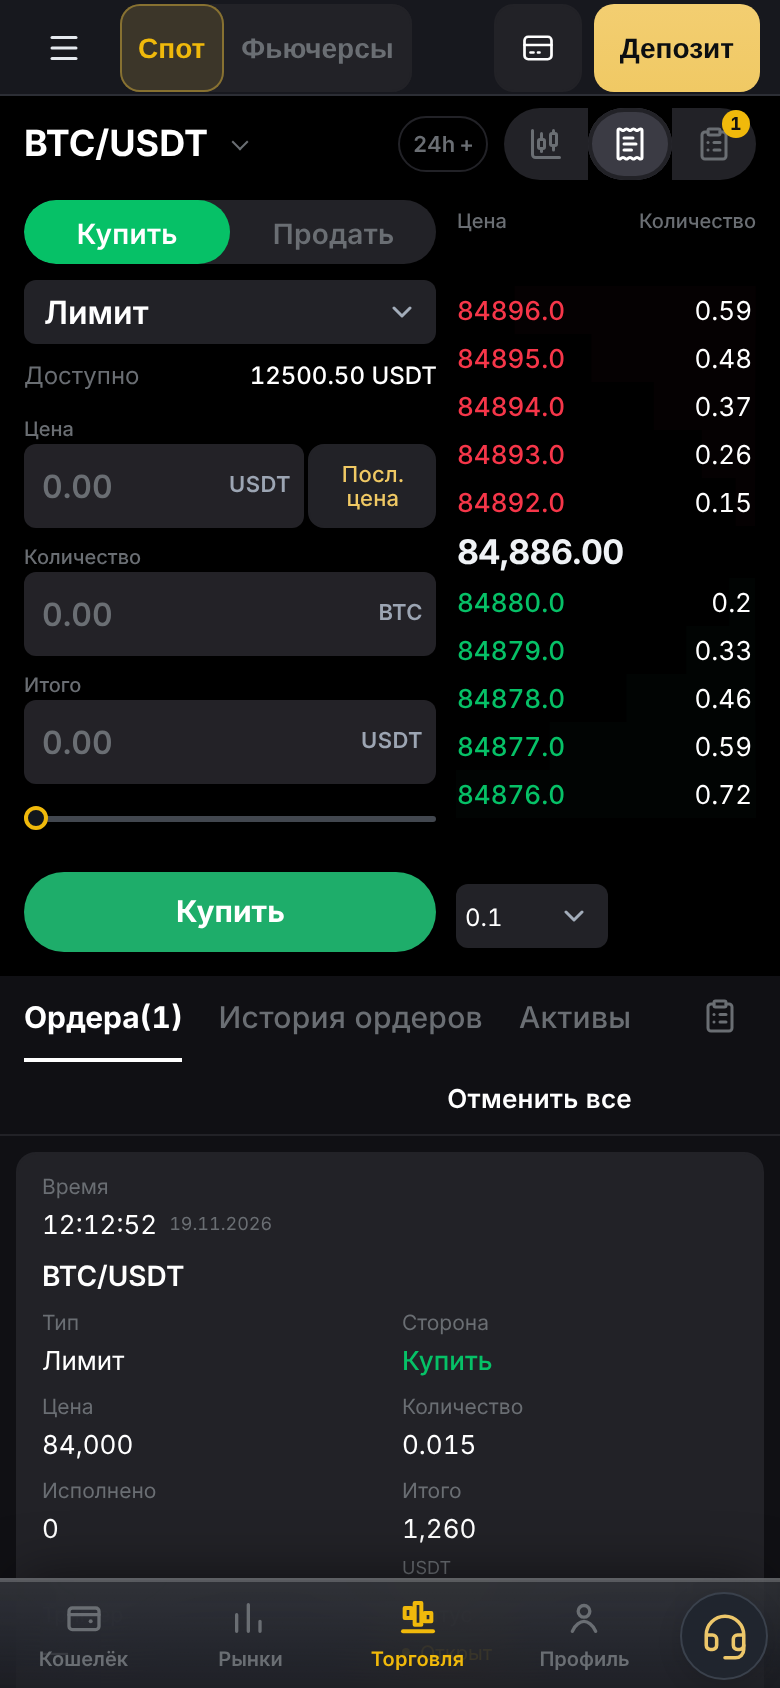
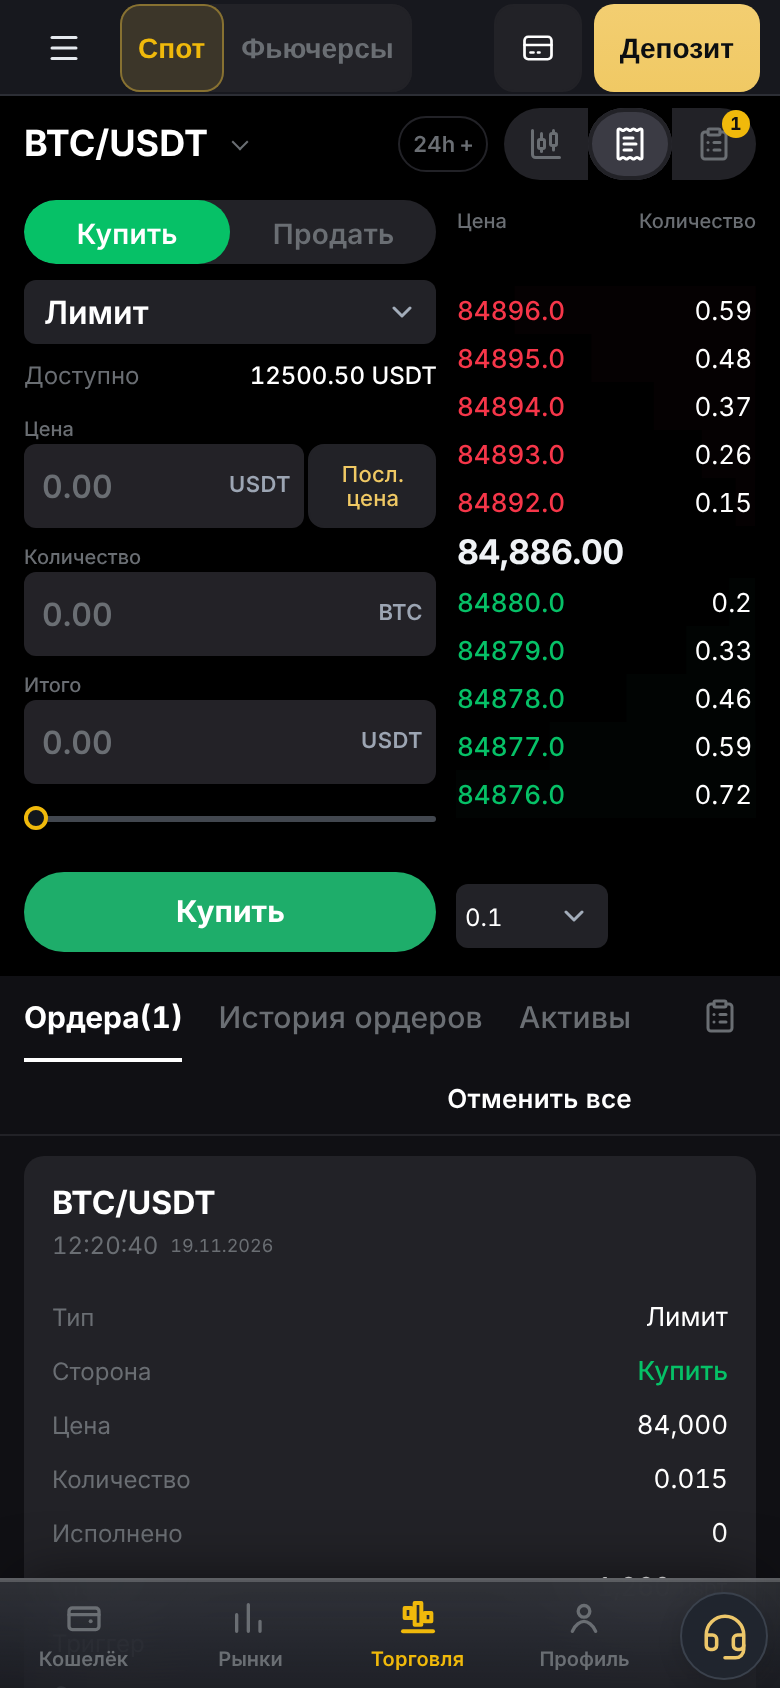
[CF-Pages-Skip] [skip render] spot: the phone order card follows the Futures phone card
The open-order and history cards on the Spot phone screen put the pair
in the head, the time under it, then label left and figure right, with
the cancel key as a pill — the layout of the Futures phone order card.
Field captions stay over their fields: the stop and OCO tickets keep
hints and a second caption in the same group.

Records the owner's instruction to put the phone terminals on the
exchange once finished; publication is Codex's, this session cannot
deploy.

Checked here: qa-spot-mobile-terminal 103/0, qa-spot-cfd-terminal,
qa-vta-presentation, qa-spot-idle-reads, qa-voltora-listing exit 0;
jest frontend/src 311 suites, 5153 passed, none failed or skipped.

Claude-Session: https://claude.ai/code/session_01EmV3PtJ6NMdZqtPwhuyAXM

diff --git a/frontend/src/pages/trade-terminal/SpotMobileReference.css b/frontend/src/pages/trade-terminal/SpotMobileReference.css
@@ -130,7 +130,6 @@
   :is(#archive-terminal-preview,.trade-terminal).vx-terminal.market-reference.terminal-studio.spot-terminal .terminal[data-mobile-tab=trade] .available-balance .amount { margin-left:auto; font-size:12px; font-weight:500; white-space:nowrap; }
   :is(#archive-terminal-preview,.trade-terminal).vx-terminal.market-reference.terminal-studio.spot-terminal .terminal[data-mobile-tab=trade] :is(.order-summary,.available-balance) { box-shadow:none !important; outline:0 !important; }
   :is(#archive-terminal-preview,.trade-terminal).vx-terminal.market-reference.terminal-studio.spot-terminal .terminal[data-mobile-tab=trade] .form-group { gap:2px; }
-  :is(#archive-terminal-preview,.trade-terminal).vx-terminal.market-reference.terminal-studio.spot-terminal .terminal[data-mobile-tab=trade] .form-label { font-size:10px; line-height:12px; color:var(--text-tertiary,#6a6e73); }
   :is(#archive-terminal-preview,.trade-terminal).vx-terminal.market-reference.terminal-studio.spot-terminal .terminal[data-mobile-tab=trade] .input-group { min-height:40px; border:0; border-radius:var(--sm-radius); background:var(--sm-field); }
   /* The size slider: the track only, no preset keys. */
   :is(#archive-terminal-preview,.trade-terminal).vx-terminal.market-reference.terminal-studio.spot-terminal .terminal[data-mobile-tab=trade] .slider-labels { display:none; }
@@ -171,6 +170,21 @@
   :is(#archive-terminal-preview,.trade-terminal).vx-terminal.market-reference.terminal-studio.spot-terminal .bottom-tabs { flex-wrap:wrap; overflow:visible; -webkit-mask-image:none; mask-image:none; }
   :is(#archive-terminal-preview,.trade-terminal).vx-terminal.market-reference.terminal-studio.spot-terminal .bottom-actions { flex:1 0 100%; display:flex; justify-content:flex-end; min-height:36px; margin:0; padding:0; }
   :is(#archive-terminal-preview,.trade-terminal).vx-terminal.market-reference.terminal-studio.spot-terminal .bottom-action-btn { min-height:36px; padding:0 2px; border:0; background:transparent; color:var(--text-primary,#fff); font-size:13px; font-weight:600; }
+
+  /* Field captions stay over their fields: the stop and OCO tickets put hints and a second caption in the same group,
+     which a caption drawn inside the field would cover. They are small and quiet, as the Futures captions are. */
+  :is(#archive-terminal-preview,.trade-terminal).vx-terminal.market-reference.terminal-studio.spot-terminal .terminal[data-mobile-tab=trade] .form-label { font-size:10px; line-height:12px; color:var(--text-tertiary,#6a6e73); }
+
+  /* ── Order cards (open orders and history): the pair in the head, the time under it, then label left, figure right — the Futures phone card ── */
+  :is(#archive-terminal-preview,.trade-terminal).vx-terminal.market-reference.terminal-studio.spot-terminal .spot-orders-table tbody { display:grid !important; gap:10px; padding:10px var(--sm-pad) 12px; }
+  :is(#archive-terminal-preview,.trade-terminal).vx-terminal.market-reference.terminal-studio.spot-terminal .spot-orders-table tbody tr[data-order-id] { display:grid !important; grid-template-columns:minmax(0,1fr) !important; gap:8px !important; padding:12px 14px !important; border:0 !important; border-radius:10px !important; background:var(--sm-field) !important; }
+  :is(#archive-terminal-preview,.trade-terminal).vx-terminal.market-reference.terminal-studio.spot-terminal .spot-orders-table tbody tr[data-order-id] > td { display:flex !important; flex-direction:row !important; align-items:baseline !important; justify-content:flex-end !important; gap:4px; min-width:0; grid-column:auto !important; padding:0 !important; border:0 !important; font-size:13px; line-height:18px; text-align:right; }
+  :is(#archive-terminal-preview,.trade-terminal).vx-terminal.market-reference.terminal-studio.spot-terminal .spot-orders-table tbody tr[data-order-id] > td::before { content:attr(data-mobile-label); flex:none; margin:0 auto 0 0; padding-right:8px; font-size:12px; line-height:18px; color:var(--text-tertiary,#6a6e73); text-align:left; }
+  :is(#archive-terminal-preview,.trade-terminal).vx-terminal.market-reference.terminal-studio.spot-terminal .spot-orders-table tbody tr[data-order-id] > td.spot-order-pair { order:-2; justify-content:flex-start !important; font-size:16px; line-height:22px; font-weight:700; text-align:left; }
+  :is(#archive-terminal-preview,.trade-terminal).vx-terminal.market-reference.terminal-studio.spot-terminal .spot-orders-table tbody tr[data-order-id] > td.spot-order-time { order:-1; justify-content:flex-start !important; margin-top:-6px; padding-bottom:8px !important; border-bottom:1px solid var(--border,#222227) !important; font-size:12px; color:var(--text-tertiary,#6a6e73); text-align:left; }
+  :is(#archive-terminal-preview,.trade-terminal).vx-terminal.market-reference.terminal-studio.spot-terminal .spot-orders-table tbody tr[data-order-id] > td:is(.spot-order-pair,.spot-order-time,.spot-order-action)::before { content:none; display:none; }
+  :is(#archive-terminal-preview,.trade-terminal).vx-terminal.market-reference.terminal-studio.spot-terminal .spot-orders-table tbody tr[data-order-id] > td.spot-order-action { justify-content:stretch !important; }
+  :is(#archive-terminal-preview,.trade-terminal).vx-terminal.market-reference.terminal-studio.spot-terminal .spot-orders-table tbody tr[data-order-id] .cancel-btn { width:100%; min-height:36px; border-radius:18px; }
 
   /* ── CFD: the same instrument row and ticket language (no order book: this market has none) ── */
   :is(#archive-terminal-preview,.trade-terminal).vx-terminal.market-reference.terminal-studio.cfd-terminal .cfd-ticker-bar {

diff --git a/docs/AI_HANDOFF.md b/docs/AI_HANDOFF.md
@@ -7865,8 +7865,9 @@ Implementation `346fa509` projects the bound account's public name in strategyOw
 - Files: `frontend/src/pages/trade-terminal/SpotMobileReference.css` (new, last phone sheet of `TradePage`), `TradePage.tsx` (icons and labels in the switch, the title rows, the list key, the chart-screen pair, `data-mobile-label` on the first tab), `OrderForm.tsx` (`sideRequest` prop: the chart-screen key chooses the side; nothing else in the ticket changed), `scripts/qa-spot-mobile-terminal.cjs` (new), `.github/workflows/futures-visual-polish.yml`.
 - Preserved: order placement, balances, listings, timers, test markets and VTA paths, Demo Spot, the CFD display-only rules, Codex's desktop Spot/CFD sheets. No dictionary change. Copy Trading, Wallet and Issue #705 untouched.
 - Guards changed, with a dated note in the script: `qa-spot-cfd-terminal.cjs` — the phone workspace keys are the 36px switch (was a 44px tab strip) and the phone action is the 40px pill (was ≥52px). That is the «большие кнопки» the owner asked to remove.
-- Still different from the Futures phone, on purpose or for later: Spot field captions sit above the fields; the Spot order card keeps its own layout; the CFD site header has no Spot/Futures switch; CFD leverage keeps its preset keys.
+- Still different from the Futures phone, on purpose: Spot field captions sit over the fields (the stop and OCO tickets put hints and a second caption in the same group, which a caption inside the field would cover); the CFD site header has no Spot/Futures switch; CFD leverage keeps its preset keys. The Spot order card now follows the Futures phone card (pair, time, then label left and figure right).
 - Checks run here on the final tree (built frontend, loopback fixtures, nothing submitted): `qa-spot-mobile-terminal.cjs` 103 PASS / 0 FAIL (Spot at 320, 360, 390, 430; CFD at 360, 390; desktop); `qa-spot-cfd-terminal`, `qa-cfd-workspace`, `qa-cfd-display-browser`, `qa-vta-presentation`, `qa-chart-ruler-label`, `qa-spot-idle-reads`, `qa-voltora-listing`, `qa-chart-workspace`, and again `qa-futures-mobile-terminal` (133/0), `qa-futures-mobile-position-card` (71/0), `qa-futures-visual-polish` — all exit 0. Full frontend Jest: 311 suites, 5153 PASS, 0 failed, 0 skipped. Not run here: the listing checks that need their own builds or a worker bundle (`qa-listing-*`, `qa-ai-candidate`, `qa-order-ticket-691`), `qa-vta-demo` (PostgreSQL). No CI run yet — there is no PR.
 - `qa-vta-presentation.cjs` pins the Spot side tab to the standard buy/sell colour and the action to its own approved fill; both are kept as they were.
 - Evidence: `docs/qa/spot-mobile-terminal/`.
 - Unresolved: owner review; the listing checks above on CI; whether the Spot order card and the CFD header should follow the Futures phone further.
+- Owner, 19 Nov, after these screenshots: «Добавляй на біржу коли все закінчиш». A PR is opened for the branch; this session cannot publish (no Cloudflare Pages or Hetzner access), so publication is Codex's, as a narrow release on the verified live source — frontend only, no backend, Worker or data change in this work.
